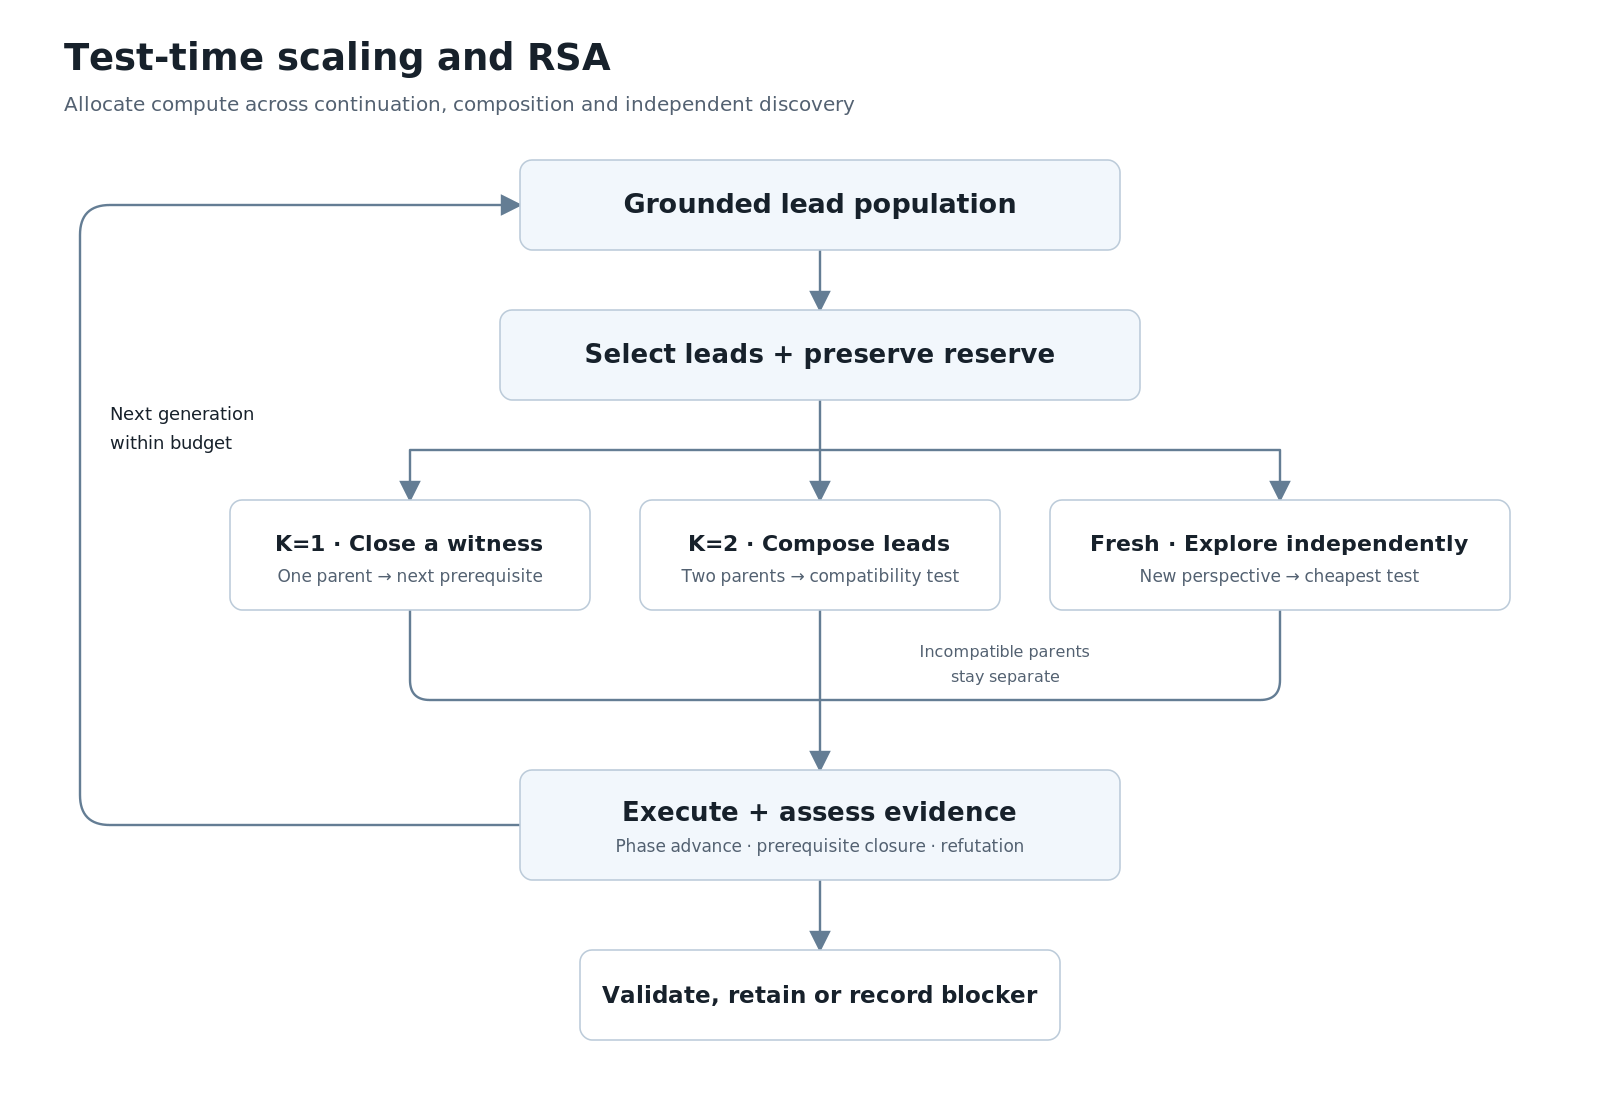
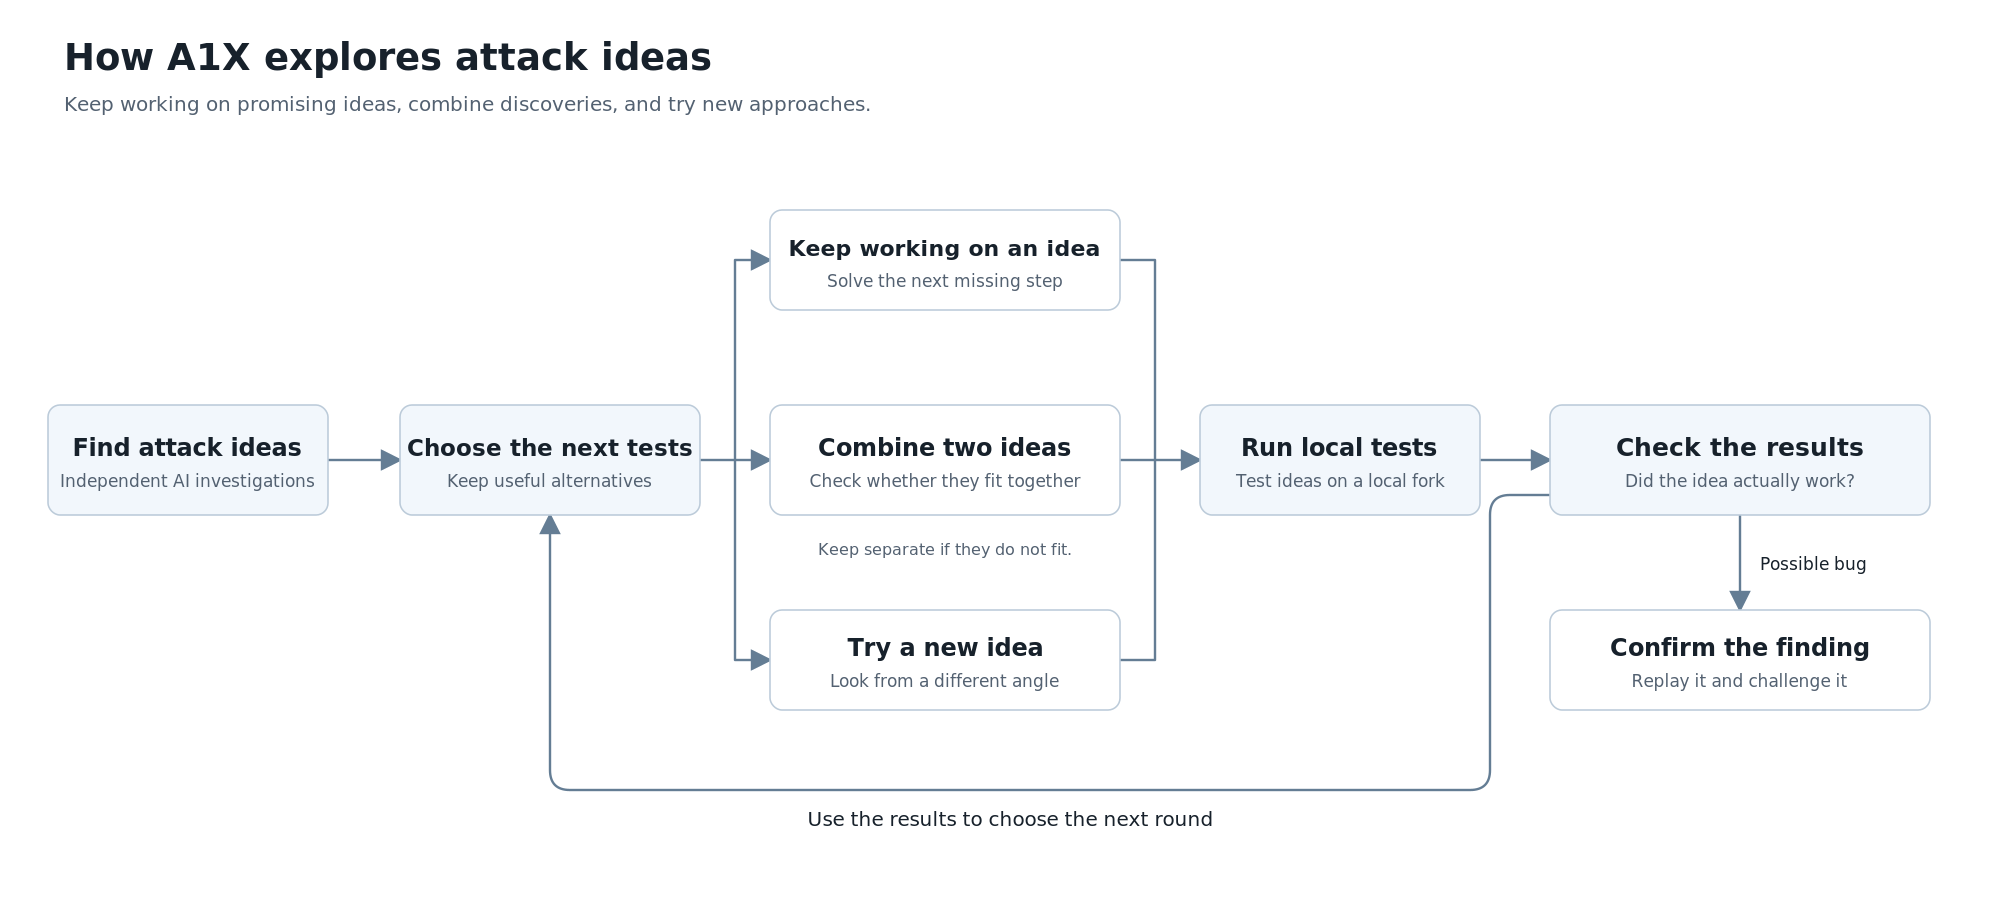
docs: simplify scaling diagram and arrange flow left to right

diff --git a/docs/diagrams/render_diagrams.py b/docs/diagrams/render_diagrams.py
@@ -10,14 +10,14 @@ OUT.mkdir(parents=True, exist_ok=True)
 
 
 class Figure:
-    def __init__(self, title, subtitle, height=1100):
+    def __init__(self, title, subtitle, height=1100, width=1600):
         self.height = height
         self.parts = [
-            f'<svg xmlns="http://www.w3.org/2000/svg" width="1600" height="{height}" viewBox="0 0 1600 {height}" role="img" aria-labelledby="title desc">',
+            f'<svg xmlns="http://www.w3.org/2000/svg" width="{width}" height="{height}" viewBox="0 0 {width} {height}" role="img" aria-labelledby="title desc">',
             f'<title id="title">{escape(title)}</title>',
             f'<desc id="desc">{escape(subtitle)}</desc>',
             '<defs><marker id="arrow" markerWidth="9" markerHeight="9" refX="8" refY="4.5" orient="auto"><path d="M0 0L9 4.5L0 9Z" fill="#647d94"/></marker></defs>',
-            f'<rect width="1600" height="{height}" fill="white"/>',
+            f'<rect width="{width}" height="{height}" fill="white"/>',
             '<g font-family="DejaVu Sans, Arial, sans-serif">',
         ]
         self.text(64, 70, title, 37, weight=700)
@@ -71,28 +71,33 @@ def investigation():
 
 
 def scaling():
-    f = Figure("Test-time scaling and RSA", "Allocate compute across continuation, composition and independent discovery")
-    f.edge("M820 250V310")
-    f.edge("M820 400V450H410V500")
-    f.edge("M820 450V500")
-    f.edge("M820 450H1280V500")
-    f.edge("M410 610V680Q410 700 430 700H820", arrow=False)
-    f.edge("M1280 610V680Q1280 700 1260 700H820", arrow=False)
-    f.edge("M820 610V770")
-    # A single arrowhead at the population: assessment is the feedback origin.
-    f.edge("M520 825H110Q80 825 80 795V235Q80 205 110 205H520")
-    f.edge("M820 880V950")
-    f.node(520, 160, 600, 90, "Grounded lead population", accent=True, size=27)
-    f.node(500, 310, 640, 90, "Select leads + preserve reserve", accent=True, size=26)
-    f.node(230, 500, 360, 110, "K=1 · Close a witness", "One parent → next prerequisite", size=22)
-    f.node(640, 500, 360, 110, "K=2 · Compose leads", "Two parents → compatibility test", size=22)
-    f.node(1050, 500, 460, 110, "Fresh · Explore independently", "New perspective → cheapest test", size=22)
-    f.node(520, 770, 600, 110, "Execute + assess evidence", "Phase advance · prerequisite closure · refutation", True, size=26)
-    f.node(580, 950, 480, 90, "Validate, retain or record blocker", size=23)
-    f.text(110, 420, "Next generation", 18)
-    f.text(110, 449, "within budget", 18)
-    f.text(1005, 657, "Incompatible parents", 16, anchor="middle", fill="#536171")
-    f.text(1005, 682, "stay separate", 16, anchor="middle", fill="#536171")
+    f = Figure(
+        "How A1X explores attack ideas",
+        "Keep working on promising ideas, combine discoveries, and try new approaches.",
+        height=900, width=2000,
+    )
+    # Five columns, left to right. The three ways to explore are alternatives.
+    f.edge("M328 460H400")
+    f.edge("M700 460H770")
+    f.edge("M735 460V260H770")
+    f.edge("M735 460V660H770")
+    f.edge("M1120 260H1155V660H1120", arrow=False)
+    f.edge("M1120 460H1200")
+    f.edge("M1480 460H1550")
+    # Results feed another choice of tests; the loop has one arrowhead.
+    f.edge("M1550 495H1510Q1490 495 1490 515V770Q1490 790 1470 790H570Q550 790 550 770V515")
+    f.edge("M1740 515V610")
+    f.node(48, 405, 280, 110, "Find attack ideas", "Independent AI investigations", accent=True, size=24)
+    f.node(400, 405, 300, 110, "Choose the next tests", "Keep useful alternatives", accent=True, size=23)
+    f.node(770, 210, 350, 100, "Keep working on an idea", "Solve the next missing step", size=22)
+    f.node(770, 405, 350, 110, "Combine two ideas", "Check whether they fit together", size=24)
+    f.node(770, 610, 350, 100, "Try a new idea", "Look from a different angle", size=24)
+    f.node(1200, 405, 280, 110, "Run local tests", "Test ideas on a local fork", accent=True, size=24)
+    f.node(1550, 405, 380, 110, "Check the results", "Did the idea actually work?", accent=True, size=25)
+    f.node(1550, 610, 380, 100, "Confirm the finding", "Replay it and challenge it", size=24)
+    f.text(1760, 570, "Possible bug", 17)
+    f.text(1010, 826, "Use the results to choose the next round", 20, anchor="middle")
+    f.text(945, 555, "Keep separate if they do not fit.", 16, anchor="middle", fill="#536171")
     f.save("test-time-scaling-rsa")
 
 

diff --git a/README.md b/README.md
@@ -63,7 +63,9 @@ Stagnation is tracked by lineage so unrelated discoveries cannot reset a stalled
 
 RSA iteratively creates new candidates from subsets of an existing population. A1X adapts the idea to vulnerability investigation by passing **grounded components and their artifacts** between generations: mechanisms, state prefixes, actor requirements, constraints, observations, and unresolved prerequisites.
 
-![A1X scaling: selected leads feed single-parent closure, pairwise composition, and independent search; executed results feed further exploration or validation.](docs/images/test-time-scaling-rsa.png)
+![Left-to-right A1X workflow: find attack ideas, choose tests, keep working on an idea or combine two ideas or try a new idea, run local tests, and check the results.](docs/images/test-time-scaling-rsa.png)
+
+*The three middle branches mean: continue one promising idea (K=1), combine two compatible ideas (K=2), or explore independently. Results guide the next round; possible bugs receive replay and further checks.*
 
 | Lane role | Input | Assigned task |
 | --- | --- | --- |

diff --git a/docs/diagrams/README.md b/docs/diagrams/README.md
@@ -5,7 +5,7 @@ The illustrations use a minimal documentation style: white backgrounds, restrain
 | Diagram | Relationship | Editable source |
 | --- | --- | --- |
 | Investigation workflow | Target intake, independent analysis, experiments, feedback, scaling, and validation | [Mermaid](investigation-workflow.mmd) |
-| Test-time scaling and RSA | Selection, K=1 continuation, K=2 composition, fresh exploration, and feedback | [Mermaid](test-time-scaling-rsa.mmd) |
+| Test-time scaling and RSA | Left-to-right flow with plain labels for continuing an idea, combining ideas, new exploration, tests, and feedback | [Mermaid](test-time-scaling-rsa.mmd) |
 | Candidate expansion | Four automatically allocated extension/refutation perspectives | [Mermaid](candidate-expansion.mmd) |
 
 The `.mmd` files preserve graph topology. The editable SVG originals and PNG mirrors live in [docs/images](../images/). The README embeds PNG files with repository-relative paths, including in offline downloads.
